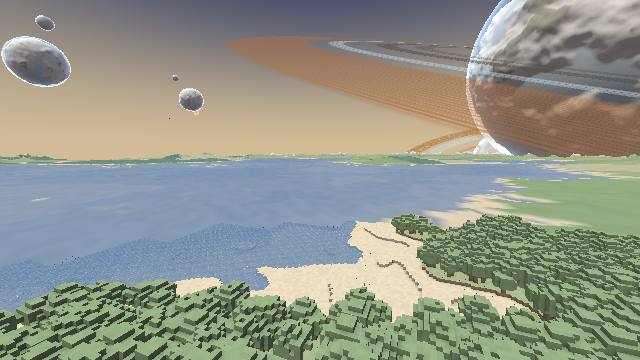
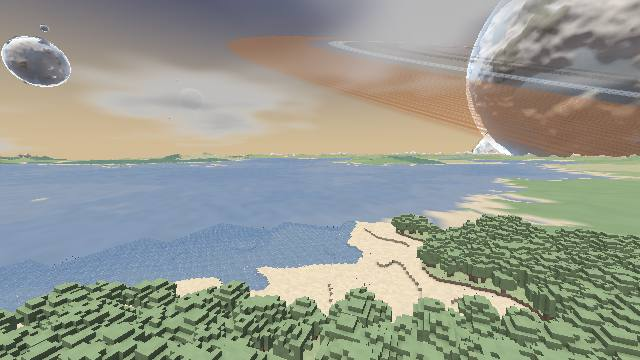
Strata: clouds on atmosphere worlds and at home (seeded cover, drifting, star-lit, dim the sun and flare when between), aerial-perspective haze through an exponential atmosphere, fewer rings, smaller moons on larger hosts; gallery stills refreshed
Claude-Session: https://claude.ai/code/session_01LchGKv4aGDQ4cVD984EsGU

diff --git a/Strata/src/main.js b/Strata/src/main.js
@@ -8,8 +8,9 @@ import { Player } from './player.js';
 import { Crumbs } from './crumbs.js';
 import { Flares } from './flare.js';
 import { BIOMES, SEA, CHUNK, spawnOf } from './blocks.js';
-import { tickFades, hole, tileEdge, waterTime, terrainNow } from './materials.js';
+import { tickFades, hole, tileEdge, waterTime, terrainNow, haze } from './materials.js';
 import { KINDS } from './planet.js';
+import { cloudTime, cloudAt, homeClouds } from './clouds.js';
 
 const params = new URLSearchParams( location.search );
 const seedWord = params.get( 'seed' ) || randomWord();
@@ -85,6 +86,7 @@ const far = new FarField( home.group, pool, seed, radius );
 const space = new Space( scene, pool, seed, radius, sunDir );
 const player = new Player( camera, home, canvas );
 const crumbs = new Crumbs( home.group, spacing );
+home.cloud = homeClouds( home.group, seed, SPAWN, SEA );
 const flares = new Flares();
 const V_A = new THREE.Vector3(), V_B = new THREE.Vector3(), V_C = new THREE.Vector3();
 
@@ -92,6 +94,7 @@ const hud = {};
 for ( const id of [ 'alt', 'biome', 'coord', 'chunks', 'seed', 'mode', 'crumbs', 'speed', 'body', 'system', 'st-frame', 'st-draws', 'st-tris', 'st-workers', 'st-mem' ] ) hud[ id ] = document.getElementById( id );
 renderer.info.autoReset = false;
 const perf = { frame: 16, js: 0, t0: 0, calls: 0, tris: 0 };
+let cloudShade = 0, cloudSys = null;
 const overlay = document.getElementById( 'overlay' ), seedInput = document.getElementById( 'seed-input' );
 const tint = document.getElementById( 'tint' ), prompt = document.getElementById( 'prompt' );
 hud.seed.textContent = seedWord;
@@ -475,6 +478,7 @@ function frame() {
     far.update( dt, homePos, world, player.shell === home ? face : null );
     tickFades( dt );
     waterTime.value += dt;
+    cloudTime.value += dt;
     terrainNow.value = performance.now() / 1000;
     lastPos.copy( worldPos );
     // Bodies spin and moons orbit before the player and camera are placed, so a frame riding a planet is not a frame behind it.
@@ -501,15 +505,42 @@ function frame() {
     }
     if ( nearSys ) { V_A.copy( nearSys.starPos ).sub( camera.position ).normalize(); sun.position.copy( V_A ); fill.position.copy( V_A ).negate(); skyMat.uniforms.sunDir.value.copy( V_A ); }
     let spaceness = Math.min( 1, Math.max( 0, ( alt - 1500 ) / 9000 ) );
-    let skyUp = UP_Y, skyTop = ZENITH, skyBottom = HORIZON;
+    let skyUp = UP_Y, skyTop = ZENITH, skyBottom = HORIZON, hazeBody = null;
     for ( const b of space.bodies ) {
         const atm = ATMOS[ b.kind ];
         if ( ! atm ) continue;
         const d = worldPos.distanceTo( b.pos );
+        if ( d < b.radius * 12 && ( ! hazeBody || d / b.radius < hazeBody.d / hazeBody.b.radius ) ) hazeBody = { b, d };
         if ( d > b.radius + 11000 ) continue;
         const bAlt = d - space.surfaceRadius( b, worldPos );
         const sp = Math.min( 1, Math.max( 0, ( bAlt - 1500 ) / 9000 ) );
         if ( sp < spaceness ) { spaceness = sp; skyUp = V_A.copy( worldPos ).sub( b.pos ).normalize(); skyTop = atm.zenith; skyBottom = atm.horizon; }
+    }
+    // Aerial perspective follows the nearest atmosphere: a planet within twelve radii, or the home world on its disc.
+    if ( hazeBody ) {
+        const b = hazeBody.b, k = KINDS[ b.kind ];
+        haze.on.value = 1; haze.flat.value = 0; haze.center.value.copy( b.pos ); haze.r.value = b.radius * ( 1 + k.seaLevel * k.amp * 4 );
+        haze.k.value = b.kind === 'icy' ? 3e-5 : 4.5e-5; haze.color.value.copy( ATMOS[ b.kind ].horizon );
+        haze.sun.value.copy( b.system.starPos ).sub( b.pos ).normalize();
+    } else if ( ! offHome ) {
+        haze.on.value = 1; haze.flat.value = 1; haze.seaY.value = home.group.position.y + SEA; haze.k.value = 4.5e-5; haze.color.value.copy( HORIZON );
+        haze.sun.value.copy( sunDir );
+    } else haze.on.value = 0;
+    // Cloud cover between you and the star: dims direct light and the flare, so an overcast day reads as one.
+    cloudShade = 0;
+    home.cloud.mat.uniforms.sunLocal.value.copy( sunDir );
+    if ( ! hazeBody && ! offHome && homeLocal.y < home.cloud.y && sunDir.y > 0.02 ) {
+        const t = ( home.cloud.y - homeLocal.y ) / sunDir.y;
+        cloudShade = cloudAt( home, V_A.set( homeLocal.x + sunDir.x * t - SPAWN.x, 0, homeLocal.z + sunDir.z * t - SPAWN.z ) );
+        cloudSys = space.home;
+    } else if ( hazeBody && hazeBody.b.cloud ) {
+        const b = hazeBody.b, rc = b.cloud.radius, oc = V_A.copy( camera.position ).sub( b.pos ), r2 = oc.lengthSq();
+        if ( r2 < rc * rc ) {
+            const dir = V_B.copy( b.system.starPos ).sub( camera.position ).normalize(), tb = -oc.dot( dir );
+            const t = tb + Math.sqrt( Math.max( 0, tb * tb - ( r2 - rc * rc ) ) );
+            cloudShade = cloudAt( b, b.group.worldToLocal( V_C.copy( camera.position ).addScaledVector( dir, t ) ).normalize() );
+            cloudSys = b.system;
+        }
     }
     const ease = 1 - Math.exp( -dt * 3 );
     skyMat.uniforms.space.value += ( spaceness - skyMat.uniforms.space.value ) * ease;
@@ -521,7 +552,7 @@ function frame() {
     const day = THREE.MathUtils.smoothstep( elev, -0.1, 0.16 ) * ( 1 - sp ) + sp;
     skyMat.uniforms.night.value = 1 - day;
     skyMat.uniforms.dusk.value = ( 1 - THREE.MathUtils.smoothstep( Math.abs( elev - 0.03 ), 0, 0.3 ) ) * ( 1 - sp );
-    sun.intensity = 2.4 * ( sp + ( 1 - sp ) * THREE.MathUtils.smoothstep( elev, -0.04, 0.12 ) );
+    sun.intensity = 2.4 * ( sp + ( 1 - sp ) * THREE.MathUtils.smoothstep( elev, -0.04, 0.12 ) ) * ( 1 - 0.6 * cloudShade );
     hemi.intensity = ( 1.15 - sp * 1.0 ) * ( 0.25 + 0.75 * day );
     ambient.intensity = ( player.shell.interior ? 2.2 : 0.6 ) * ( 0.4 + 0.6 * day );
     space.night = 1 - day;
@@ -558,7 +589,7 @@ function frame() {
     renderer.render( scene, camera );
     flares.update( dt, camera, [ ...space.systems.values() ].map( ( sys ) => {
         const d = sys.starPos.distanceTo( camera.position );
-        return { pos: sys.starPos, color: starTint.set( sys.starColor ).clone(), bright: sys.lum * Math.pow( 250000 / d, 2 ) * 110 };
+        return { pos: sys.starPos, color: starTint.set( sys.starColor ).clone(), bright: sys.lum * Math.pow( 250000 / d, 2 ) * 110 * ( sys === cloudSys ? 1 - 0.95 * cloudShade : 1 ) };
     } ), ( pos ) => {
         if ( player.shell.interior ) return true;
         const dir = V_B.copy( pos ).sub( camera.position ), len = dir.length();

diff --git a/Strata/src/clouds.js b/Strata/src/clouds.js
@@ -1,0 +1,115 @@
+import * as THREE from 'three';
+import { fbm3 } from './noise.js';
+import { KINDS } from './planet.js';
+import { hazed } from './materials.js';
+
+export const cloudTime = { value: 0 };
+const SCALE = 5, WIND = [ 0.004, 0, 0.002 ];
+
+// Integer-hash value noise written the same way as noise.js so the CPU can ask what the GPU drew.
+const GLSL_NOISE = `
+uniform uint cseed;
+float chash( int x, int y, int z, uint s ) {
+    uint h = uint( x + z * 7919 ) * 374761393u + uint( y + z * 104729 ) * 668265263u + s * 2246822519u;
+    h = ( h ^ ( h >> 13 ) ) * 1274126177u;
+    h ^= h >> 16;
+    return float( h ) / 4294967296.0;
+}
+float cfade( float t ) { return t * t * t * ( t * ( t * 6.0 - 15.0 ) + 10.0 ); }
+float cvalue( vec3 p, uint s ) {
+    vec3 i = floor( p ), f = p - i;
+    int x = int( i.x ), y = int( i.y ), z = int( i.z );
+    float u = cfade( f.x ), v = cfade( f.y ), w = cfade( f.z );
+    float x00 = mix( chash( x, y, z, s ), chash( x + 1, y, z, s ), u ), x10 = mix( chash( x, y + 1, z, s ), chash( x + 1, y + 1, z, s ), u );
+    float x01 = mix( chash( x, y, z + 1, s ), chash( x + 1, y, z + 1, s ), u ), x11 = mix( chash( x, y + 1, z + 1, s ), chash( x + 1, y + 1, z + 1, s ), u );
+    return mix( mix( x00, x10, v ), mix( x01, x11, v ), w );
+}
+float cfbm( vec3 p, uint s, int octaves ) {
+    float sum = 0.0, amp = 1.0, f = 1.0;
+    for ( int i = 0; i < 6; i++ ) {
+        if ( i >= octaves ) break;
+        sum += ( cvalue( p * f, s + uint( i * 131 ) ) * 2.0 - 1.0 ) * amp;
+        amp *= 0.5; f *= 2.0;
+    }
+    return sum * 0.5;
+}`;
+
+export const FLAT = 1 / 6000;
+
+// Cloud cover in [0,1] at a body-local unit direction (or, for the flat home layer, a home-local point);
+// identical to the shader's.
+export function cloudAt( body, dir, t = cloudTime.value ) {
+    const c = body.cloud;
+    if ( ! c ) return 0;
+    const k = c.flat ? FLAT : SCALE, y = c.flat ? 0 : dir.y * k;
+    const p = [ dir.x * k + WIND[ 0 ] * t, y + WIND[ 1 ] * t, dir.z * k + WIND[ 2 ] * t ];
+    const weather = fbm3( p[ 0 ] * 0.4, p[ 1 ] * 0.4, p[ 2 ] * 0.4, c.seed, 3 );
+    const detail = fbm3( p[ 0 ] * 1.3 + 7, p[ 1 ] * 1.3 + 7, p[ 2 ] * 1.3 + 7, c.seed + 5, 4 );
+    const n = 0.5 * weather + 0.5 * detail, thr = 0.45 - c.cover * 0.9;
+    return THREE.MathUtils.smoothstep( n, thr, thr + 0.25 );
+}
+
+// Adds a cloud shell to an atmosphere body: a translucent sphere above the peaks whose cover comes from the
+// noise above, lit by its star, drifting with the wind and fading as you fly through it.
+export function cloudMaterial( seed, cover, tint, flat = false ) {
+    return new THREE.ShaderMaterial( {
+        transparent: true, depthWrite: false, side: THREE.DoubleSide,
+        uniforms: { cseed: { value: seed }, cover: { value: cover }, time: cloudTime, sunLocal: { value: new THREE.Vector3( 0, 1, 0 ) }, tint: { value: new THREE.Color( tint ) }, flatScale: { value: flat ? FLAT : 0 } },
+        vertexShader: `#include <common>
+#include <logdepthbuf_pars_vertex>
+uniform float flatScale;
+varying vec3 vLocal; varying vec3 vWorld;
+void main() {
+    #include <begin_vertex>
+    vLocal = flatScale > 0.0 ? position : normalize( position );
+    vWorld = ( modelMatrix * vec4( transformed, 1.0 ) ).xyz;
+    if ( flatScale > 0.0 ) { vec2 cd = vWorld.xz - cameraPosition.xz; transformed.y -= dot( cd, cd ) / 180000.0; }
+    gl_Position = projectionMatrix * modelViewMatrix * vec4( transformed, 1.0 );
+    #include <logdepthbuf_vertex>
+}`,
+        fragmentShader: `#include <common>
+#include <logdepthbuf_pars_fragment>
+${GLSL_NOISE}
+uniform float cover; uniform float time; uniform vec3 sunLocal; uniform vec3 tint; uniform float flatScale;
+varying vec3 vLocal; varying vec3 vWorld;
+void main() {
+    #include <logdepthbuf_fragment>
+    vec3 d = flatScale > 0.0 ? vec3( 0.0, 1.0, 0.0 ) : normalize( vLocal );
+    vec3 p = ( flatScale > 0.0 ? vec3( vLocal.x, 0.0, vLocal.z ) * flatScale : d * ${SCALE.toFixed( 1 )} ) + vec3( ${WIND.map( ( w ) => w.toFixed( 4 ) ).join( ', ' )} ) * time;
+    float weather = cfbm( p * 0.4, cseed, 3 ), detail = cfbm( p * 1.3 + 7.0, cseed + 5u, 4 );
+    float n = 0.5 * weather + 0.5 * detail, thr = 0.45 - cover * 0.9;
+    float a = smoothstep( thr, thr + 0.25, n );
+    float light = smoothstep( -0.2, 0.3, dot( d, sunLocal ) );
+    float thick = smoothstep( thr + 0.05, thr + 0.5, n );
+    vec3 c = mix( vec3( 0.40, 0.43, 0.50 ), tint, light ) * ( 1.0 - thick * 0.2 * light );
+    if ( ! gl_FrontFacing ) c *= 0.88;
+    a *= smoothstep( 40.0, 300.0, distance( vWorld, cameraPosition ) );
+    gl_FragColor = vec4( c, a * 0.94 );
+    #include <fog_fragment>
+}`,
+    } );
+}
+
+export function addClouds( body, rnd ) {
+    const k = KINDS[ body.kind ];
+    if ( ! k.atmosphere ) return;
+    const cover = body.kind === 'icy' ? 0.1 + rnd * 0.4 : 0.12 + rnd * 0.6;
+    const radius = body.radius * ( 1 + k.amp * 4 ) + Math.max( 500, body.radius * 0.012 );
+    const mat = hazed( cloudMaterial( body.seed % 1000003, cover, body.kind === 'icy' ? 0xf4f7fb : 0xffffff ) );
+    const mesh = new THREE.Mesh( new THREE.SphereGeometry( radius, 72, 48 ), mat );
+    mesh.renderOrder = 4;
+    body.group.add( mesh );
+    body.cloud = { mesh, mat, cover, radius, seed: body.seed % 1000003 };
+}
+
+// The home world's layer: a flat sheet 1.6 km over the sea, curved down with the ground, 400 km across.
+export function homeClouds( group, seed, spawn, seaY ) {
+    const cover = 0.15 + ( seed % 97 ) / 97 * 0.5;
+    const mat = hazed( cloudMaterial( seed % 1000003, cover, 0xffffff, true ) );
+    const mesh = new THREE.Mesh( new THREE.PlaneGeometry( 400000, 400000, 64, 64 ).rotateX( -Math.PI / 2 ), mat );
+    mesh.position.set( spawn.x, seaY + 1600, spawn.z );
+    mesh.renderOrder = 4;
+    mesh.frustumCulled = false;
+    group.add( mesh );
+    return { mesh, mat, cover, flat: true, y: seaY + 1600, seed: seed % 1000003 };
+}

diff --git a/Strata/src/materials.js b/Strata/src/materials.js
@@ -161,21 +161,59 @@ export function terrainMaterials() {
     const die = { dieAt: { value: -1 }, dieDur: { value: 1 } };
     return {
         die,
-        solid: fading( curved( new THREE.MeshLambertMaterial( { vertexColors: true } ), null, true ), die ),
-        water: fading( watery( curved( new THREE.MeshLambertMaterial( { vertexColors: true, transparent: true, opacity: 0.86, depthWrite: false } ) ) ), die ),
+        solid: hazed( fading( curved( new THREE.MeshLambertMaterial( { vertexColors: true } ), null, true ), die ) ),
+        water: hazed( fading( watery( curved( new THREE.MeshLambertMaterial( { vertexColors: true, transparent: true, opacity: 0.86, depthWrite: false } ) ) ), die ) ),
     };
+}
+
+// Aerial perspective. Optical depth along the fragment-to-camera path through an exponential atmosphere
+// (sea-level extinction hazeK per metre, scale height hazeH), around hazeCenter at radius hazeR, or above a
+// flat sea at hazeSeaY when hazeFlat is set. Colour and strength come from the sky of the body you are near.
+export const haze = {
+    on: { value: 0 }, color: { value: new THREE.Color( 0xeadfca ) }, k: { value: 4.5e-5 }, h: { value: 2500 },
+    center: { value: new THREE.Vector3() }, r: { value: 1 }, flat: { value: 1 }, seaY: { value: 0 }, sun: { value: new THREE.Vector3( 0, 1, 0 ) },
+};
+
+export function hazed( material ) {
+    const prev = material.onBeforeCompile || ( () => {} ), prevKey = material.customProgramCacheKey, prevPatch = material.userData.patch;
+    material.userData.patch = ( m ) => hazed( prevPatch ? prevPatch( m ) : m );
+    material.onBeforeCompile = ( shader ) => {
+        prev( shader );
+        for ( const [ k, u ] of Object.entries( haze ) ) shader.uniforms[ 'haze' + k[ 0 ].toUpperCase() + k.slice( 1 ) ] = u;
+        shader.vertexShader = shader.vertexShader
+            .replace( '#include <common>', '#include <common>\nvarying vec3 vHazeW;' )
+            .replace( '#include <begin_vertex>', '#include <begin_vertex>\nvHazeW = ( modelMatrix * vec4( transformed, 1.0 ) ).xyz;' );
+        shader.fragmentShader = shader.fragmentShader
+            .replace( '#include <common>', `#include <common>
+                uniform float hazeOn; uniform vec3 hazeColor; uniform float hazeK; uniform float hazeH; uniform vec3 hazeCenter; uniform float hazeR; uniform float hazeFlat; uniform float hazeSeaY; uniform vec3 hazeSun;
+                varying vec3 vHazeW;
+                float hazeAlt( vec3 p ) { return hazeFlat > 0.5 ? p.y - hazeSeaY : length( p - hazeCenter ) - hazeR; }
+                float hazeDepth( vec3 a, vec3 b ) {
+                    float a0 = max( hazeAlt( a ), 0.0 ), a1 = max( hazeAlt( b ), 0.0 ), e0 = exp( -a0 / hazeH ), e1 = exp( -a1 / hazeH );
+                    float avg = abs( a1 - a0 ) < 1.0 ? e0 : ( e0 - e1 ) * hazeH / ( a1 - a0 );
+                    return hazeK * distance( a, b ) * avg;
+                }` )
+            .replace( '#include <fog_fragment>', `#include <fog_fragment>
+                if ( hazeOn > 0.5 ) {
+                    vec3 hazeUp = hazeFlat > 0.5 ? vec3( 0.0, 1.0, 0.0 ) : normalize( vHazeW - hazeCenter );
+                    float hazeLit = 0.08 + 0.92 * smoothstep( -0.12, 0.25, dot( hazeUp, hazeSun ) );
+                    gl_FragColor.rgb = mix( gl_FragColor.rgb, hazeColor * hazeLit, 1.0 - exp( -hazeDepth( vHazeW, cameraPosition ) ) );
+                }` );
+    };
+    material.customProgramCacheKey = () => ( prevKey ? prevKey.call( material ) : '' ) + '-haze';
+    return material;
 }
 
 const edgeUniforms = () => ( { center: { value: new THREE.Vector2() }, r0: { value: -1 }, r1: { value: -1 } } );
 
 export const solidMat = curved( new THREE.MeshLambertMaterial( { vertexColors: true } ), null, true );
 export const waterMat = watery( curved( new THREE.MeshLambertMaterial( { vertexColors: true, transparent: true, opacity: 0.86, depthWrite: false } ) ) );
-export const fineTileMat = curved( new THREE.MeshLambertMaterial( { vertexColors: true } ), edgeUniforms() );
-export const midTileMat = curved( new THREE.MeshLambertMaterial( { vertexColors: true } ), edgeUniforms() );
-export const coarseTileMat = curved( new THREE.MeshLambertMaterial( { vertexColors: true } ), edgeUniforms() );
-export const oceanMat = curved( new THREE.MeshLambertMaterial( { color: 0x2d4e80 } ) );
-export const planetTileMat = tiled( new THREE.MeshLambertMaterial( { vertexColors: true } ) );
-export const bodyMat = holed( new THREE.MeshLambertMaterial( { vertexColors: true } ) );
+export const fineTileMat = hazed( curved( new THREE.MeshLambertMaterial( { vertexColors: true } ), edgeUniforms() ) );
+export const midTileMat = hazed( curved( new THREE.MeshLambertMaterial( { vertexColors: true } ), edgeUniforms() ) );
+export const coarseTileMat = hazed( curved( new THREE.MeshLambertMaterial( { vertexColors: true } ), edgeUniforms() ) );
+export const oceanMat = hazed( curved( new THREE.MeshLambertMaterial( { color: 0x2d4e80 } ) ) );
+export const planetTileMat = hazed( tiled( new THREE.MeshLambertMaterial( { vertexColors: true } ) ) );
+export const bodyMat = hazed( holed( new THREE.MeshLambertMaterial( { vertexColors: true } ) ) );
 export const rockMat = new THREE.MeshLambertMaterial( { vertexColors: true } );
 export const instanceMat = new THREE.MeshLambertMaterial( { color: 0xffffff } );
 

diff --git a/Strata/src/space.js b/Strata/src/space.js
@@ -1,6 +1,7 @@
 import * as THREE from 'three';
 import { hash2 } from './noise.js';
 import { bodyMat, rockMat, instanceMat, fadeIn } from './materials.js';
+import { addClouds } from './clouds.js';
 import { KINDS as SURFACE, surfaceAt, octavesFor } from './planet.js';
 import { RingField } from './rings.js';
 
@@ -22,7 +23,7 @@ const HZ_BASE = 70000;
 const PATCH_N = 97;
 export const CELL = 900000;
 
-const SCRATCH = new THREE.Vector3(), AIRLOCK_P = new THREE.Vector3();
+const SCRATCH = new THREE.Vector3(), AIRLOCK_P = new THREE.Vector3(), TMPQ = new THREE.Quaternion();
 
 const rimMaterial = ( color ) => new THREE.ShaderMaterial( {
     transparent: true, depthWrite: false, blending: THREE.AdditiveBlending,
@@ -130,7 +131,7 @@ class System {
             const q = ( this.home ? pos.distanceTo( this.starPos ) : dist ) / this.hz;
             const kind = this.planetKind( q, radius );
             const body = this.addBody( i, kind, q, radius, pos );
-            if ( this.rnd( i, 8 ) < ( this.home && i === 0 ? 1 : q > 2.7 ? 0.55 : 0.15 ) ) {
+            if ( this.rnd( i, 8 ) < ( this.home && i === 0 ? 1 : q > 2.7 ? 0.22 : 0.05 ) ) {
                 body.rings = new RingField( this.space, body, ( this.seed * 13 + i * 101 ) % 1000003 );
                 body.ringNormal = body.rings.normal;
                 this.rings.push( body.rings );
@@ -152,6 +153,7 @@ class System {
             group.add( rim );
             body.rim = rim;
         }
+        addClouds( body, this.rnd( i, 80 ) );
         this.scene.add( group );
         this.bodies.push( body );
         this.space.requestBody( body, 0 );
@@ -159,17 +161,17 @@ class System {
     }
 
     // Moons: ordinary bodies (same detail levels, shells and tiles) that orbit a planet beyond its rings,
-    // once every 10 to 40 minutes. Bigger planets carry more; a moon is a tenth to a third of its host.
+    // once every 10 to 40 minutes. Bigger planets carry more; a moon is a twentieth to a sixth of its host.
     makeMoons() {
         const planets = this.bodies.slice();
         let i = planets.length;
         for ( const host of planets ) {
-            if ( host.radius < 5000 ) continue;
-            const roll = this.rnd( host.i, 70 ), n = roll < 0.4 ? 0 : roll < 0.8 ? 1 : host.radius > 20000 ? 3 : 2;
+            if ( host.radius < 8000 ) continue;
+            const roll = this.rnd( host.i, 70 ), n = roll < 0.4 ? 0 : roll < 0.8 ? 1 : host.radius > 30000 ? 3 : 2;
             const inner = Math.max( host.radius * 2.6, host.rings ? host.rings.outer * 1.4 : 0 );
             const plane = new THREE.Vector3( this.rnd( host.i, 71 ) - 0.5, 1, this.rnd( host.i, 72 ) - 0.5 ).normalize();
             for ( let m = 0; m < n; m++, i++ ) {
-                const radius = Math.max( 900, host.radius * ( 0.1 + this.rnd( i, 3 ) * 0.25 ) );
+                const radius = Math.max( 700, host.radius * ( 0.05 + this.rnd( i, 3 ) * 0.11 ) );
                 const orbit = { host, orbitR: inner + host.radius * ( 1.2 * m + this.rnd( i, 4 ) * 0.8 ) + radius * 3, angle: this.rnd( i, 5 ) * Math.PI * 2, tilt: Math.acos( plane.y ) * ( this.rnd( i, 6 ) < 0.5 ? 1 : -1 ) };
                 orbit.omega = Math.min( ( 2 * Math.PI ) / ( 600 + this.rnd( i, 9 ) * 1800 ), 60 / orbit.orbitR ) * ( this.rnd( i, 10 ) < 0.85 ? 1 : -1 );
                 const pos = this.space.orbitPoint( orbit, orbit.angle, new THREE.Vector3() );
@@ -521,6 +523,7 @@ export class Space {
             for ( const b of sys.bodies ) {
                 b.group.rotation.y += b.spin * dt;
                 if ( b.orbit ) { b.orbit.angle += b.orbit.omega * dt; this.orbitPoint( b.orbit, b.orbit.angle, b.pos ); b.group.position.copy( b.pos ); }
+                if ( b.cloud ) b.cloud.mat.uniforms.sunLocal.value.copy( sys.starPos ).sub( b.pos ).normalize().applyQuaternion( TMPQ.copy( b.group.quaternion ).invert() );
                 if ( b.rim ) b.rim.material.uniforms.fade.value = Math.min( 1, Math.max( 0, ( camPos.distanceTo( b.pos ) - b.rim.userData.shellR ) / ( b.radius * 0.4 ) ) );
             }
             for ( const s of sys.ships ) {

diff --git a/Strata/README.md b/Strata/README.md
@@ -29,7 +29,9 @@ The main thread batches chunks into 4×4 super-chunks (one mesh per material, re
 
 ## Space
 
-Past 1.5 km the sky thins to black and stars fade in. The home system has up to seven planets drawn from four kinds (lush, icy, rocky, ember; no gas giants), with radii on a rough power law from 1.3 km to 100 km (home-world scale; about one in eight is over 40 km) and orbits spaced so each clears its neighbours and their rings, starting beyond the home disc and reaching 600 km out (temperature, and so kind, is taken from the distance to the home sun), each an icosphere displaced and coloured by 3D noise in a worker at four detail levels (320 to 327,680 triangles) chosen by apparent triangle size (the top level is skipped on worlds under 20 km while their heightfield tiles are up, and levels more than one step from the current one are released), and within 1.6 radii a 97×97 high-resolution patch of the same surface function is regenerated under you as you move. Below about 4 km (scaled with the detail radius, capped at half the planet's radius) a ring of 256 m heightfield tiles at 8 m steps is laid on the sphere around you, out to 3 km: the tiles are exact sphere points keyed on a tangent-frame grid that is re-framed as you drift, dithered away where the voxels cover them, with the smooth sphere dithered away beneath them (`pfar.js`). Within 220 m of the ground the planet becomes voxels: a tangent-plane shell (the same chunk pipeline as the home world, fed by the planet's surface function through a gnomonic projection, with column heights following the true sphere) is attached to the planet with its own frame, so gravity points at the planet's centre and you can land, walk and jump. The shell re-centres when you have moved about 7% of the planet's radius from its origin (64 m on the smallest worlds, up to 400 m on the largest); the old shell stays up until the new one has loaded and then dissolves under it, so nothing blinks. It dissolves the same way when you climb above 350 m. Lush worlds get grass, forest and seas (the voxel shell carves the seabed from the same height field, capped 14 blocks deep, and fills to sea level with water, ice or lava); icy ones snow over ice with frozen seas and the odd conifer; ember worlds basalt and rust around lava seas; rocky ones stone and gravel highlands and dry basins. Lush and icy worlds have atmospheres: the sky dome takes their colours (blue, or pale steel for ice) oriented to the planet's up, thinning to stars with altitude exactly as at home, and hemisphere light follows. Rocky and ember worlds are airless, so their sky stays black at any height and they grow nothing: no trees, no grass, no tundra. The smooth planet mesh is dithered away under the shell so the two never fight; the hole is sized each frame to the radius the voxel chunks actually cover and have finished fading in, so the lower level of detail stays underneath until the voxels are solid and you never see through the surface, and it shrinks again when you leave, with the voxels fading, rather than switching. The smooth sphere, the high-res patch and the voxel shell share one surface function (`planet.js`) for height, biome and colour, the 3D noise is normalised so extra octaves only add detail, and the smooth colours are dimmed to match voxel ambient occlusion, so the three agree in topography and tone to within a block. Columns are 384 blocks tall and each planet shell picks its own vertical origin by sampling the surface across the ring it will cover (plus the sea level), so the lowest valley sits 30 blocks above the bottom and the highest peak fits beneath the top; nothing is flattened into a plateau unless local relief exceeds 370 m, which the terrain amplitudes do not reach. Detail changes everywhere cross-fade with hashed alpha rather than popping, and the seams between voxel ring, fine tiles and coarse tiles are dithered over a band rather than cut. Any planet can carry rings (the first home planet always does, outer icy worlds with 55% odds, inner ones 15%): one to four lanes, each with its own inner and outer radius, thickness, density, opacity, banding frequency and tint, separated by seeded gaps. From a distance a lane is a shader disc with bands and gaps; within about 7 km the disc fades out and the ring resolves into particles generated per 2 km cell of the ring plane (hundreds per cell, sizes on a power law up to 45 m, scattered through the lane's thickness), low-poly instances at range and voxel rocks within 900 m, with their own gravity like any asteroid. Planets over 5 km carry up to three moons (a tenth to a third of their size, orbiting beyond the rings once every 10 to 40 minutes, surface speed capped at 60 m/s): they are ordinary bodies, with the same detail levels, tiles, voxel shells and gravity, so you can land on one and watch its planet cross the sky. Thirty to 220 free asteroids, most of them in a belt around the ringed or biggest body, are low-poly instances until you come within a few kilometres, when each is generated as a voxel blob and meshed with the same ambient-occlusion mesher as the ground. ## The cosmos
+Past 1.5 km the sky thins to black and stars fade in. The home system has up to seven planets drawn from four kinds (lush, icy, rocky, ember; no gas giants), with radii on a rough power law from 1.3 km to 100 km (home-world scale; about one in eight is over 40 km) and orbits spaced so each clears its neighbours and their rings, starting beyond the home disc and reaching 600 km out (temperature, and so kind, is taken from the distance to the home sun), each an icosphere displaced and coloured by 3D noise in a worker at four detail levels (320 to 327,680 triangles) chosen by apparent triangle size (the top level is skipped on worlds under 20 km while their heightfield tiles are up, and levels more than one step from the current one are released), and within 1.6 radii a 97×97 high-resolution patch of the same surface function is regenerated under you as you move. Below about 4 km (scaled with the detail radius, capped at half the planet's radius) a ring of 256 m heightfield tiles at 8 m steps is laid on the sphere around you, out to 3 km: the tiles are exact sphere points keyed on a tangent-frame grid that is re-framed as you drift, dithered away where the voxels cover them, with the smooth sphere dithered away beneath them (`pfar.js`). Within 220 m of the ground the planet becomes voxels: a tangent-plane shell (the same chunk pipeline as the home world, fed by the planet's surface function through a gnomonic projection, with column heights following the true sphere) is attached to the planet with its own frame, so gravity points at the planet's centre and you can land, walk and jump. The shell re-centres when you have moved about 7% of the planet's radius from its origin (64 m on the smallest worlds, up to 400 m on the largest); the old shell stays up until the new one has loaded and then dissolves under it, so nothing blinks. It dissolves the same way when you climb above 350 m. Lush worlds get grass, forest and seas (the voxel shell carves the seabed from the same height field, capped 14 blocks deep, and fills to sea level with water, ice or lava); icy ones snow over ice with frozen seas and the odd conifer; ember worlds basalt and rust around lava seas; rocky ones stone and gravel highlands and dry basins. Lush and icy worlds have atmospheres, and with them clouds and haze. A cloud shell sits above the highest peaks: its cover (a tenth to two thirds of the sky, seeded per world) comes from two scales of 3D value noise, weather systems and cumulus texture, drifting on a wind, lit by the world's star, grey underneath and fading as you fly through it; the same noise runs on the main thread so cloud between you and the star dims the direct light and the lens flare, while the star itself still shows through gaps. Aerial perspective fades everything with distance through an exponential atmosphere (sea-level extinction 4.5e-5 per metre, 2.5 km scale height, integrated along the view ray), so hills a few tens of kilometres off melt into the horizon colour and a planet seen from orbit wears a pale veil rather than showing bare; the veil is lit by the star, so the night side stays dark. Their sky dome takes their colours (blue, or pale steel for ice) oriented to the planet's up, thinning to stars with altitude exactly as at home, and hemisphere light follows. Rocky and ember worlds are airless, so their sky stays black at any height and they grow nothing: no trees, no grass, no tundra. The smooth planet mesh is dithered away under the shell so the two never fight; the hole is sized each frame to the radius the voxel chunks actually cover and have finished fading in, so the lower level of detail stays underneath until the voxels are solid and you never see through the surface, and it shrinks again when you leave, with the voxels fading, rather than switching. The smooth sphere, the high-res patch and the voxel shell share one surface function (`planet.js`) for height, biome and colour, the 3D noise is normalised so extra octaves only add detail, and the smooth colours are dimmed to match voxel ambient occlusion, so the three agree in topography and tone to within a block. Columns are 384 blocks tall and each planet shell picks its own vertical origin by sampling the surface across the ring it will cover (plus the sea level), so the lowest valley sits 30 blocks above the bottom and the highest peak fits beneath the top; nothing is flattened into a plateau unless local relief exceeds 370 m, which the terrain amplitudes do not reach. Detail changes everywhere cross-fade with hashed alpha rather than popping, and the seams between voxel ring, fine tiles and coarse tiles are dithered over a band rather than cut. Rings are uncommon (the first home planet always has them, outer worlds about one in five, inner ones one in twenty, moons never): one to four lanes, each with its own inner and outer radius, thickness, density, opacity, banding frequency and tint, separated by seeded gaps. From a distance a lane is a shader disc with bands and gaps; within about 7 km the disc fades out and the ring resolves into particles generated per 2 km cell of the ring plane (hundreds per cell, sizes on a power law up to 45 m, scattered through the lane's thickness), low-poly instances at range and voxel rocks within 900 m, with their own gravity like any asteroid. Planets over 8 km carry up to three moons (a twentieth to a sixth of their size, orbiting beyond the rings once every 10 to 40 minutes, surface speed capped at 60 m/s): they are ordinary bodies, with the same detail levels, tiles, voxel shells and gravity, so you can land on one and watch its planet cross the sky. Thirty to 220 free asteroids, most of them in a belt around the ringed or biggest body, are low-poly instances until you come within a few kilometres, when each is generated as a voxel blob and meshed with the same ambient-occlusion mesher as the ground.
+
+## The cosmos
 
 Space is divided into 900 km cells and every cell holds one star system at a seeded, jittered position: a star (white, yellow, orange or blue), two to eight planets, some ringed, its own belt, four to twenty ships and up to five stations, all from the cell's hash. Systems within about a thousand kilometres of you exist; the rest do not until you get there. Flight speed keeps scaling with clearance from the nearest body or star, with no practical cap, so a neighbouring system is a few seconds away at full boost, and the same rule slows you on arrival. To keep float precision, the whole scene is re-based around the camera every 50 km of travel; positions you see in the HUD are relative to home. The Travel list and the number keys always refer to the nearest system.
 
